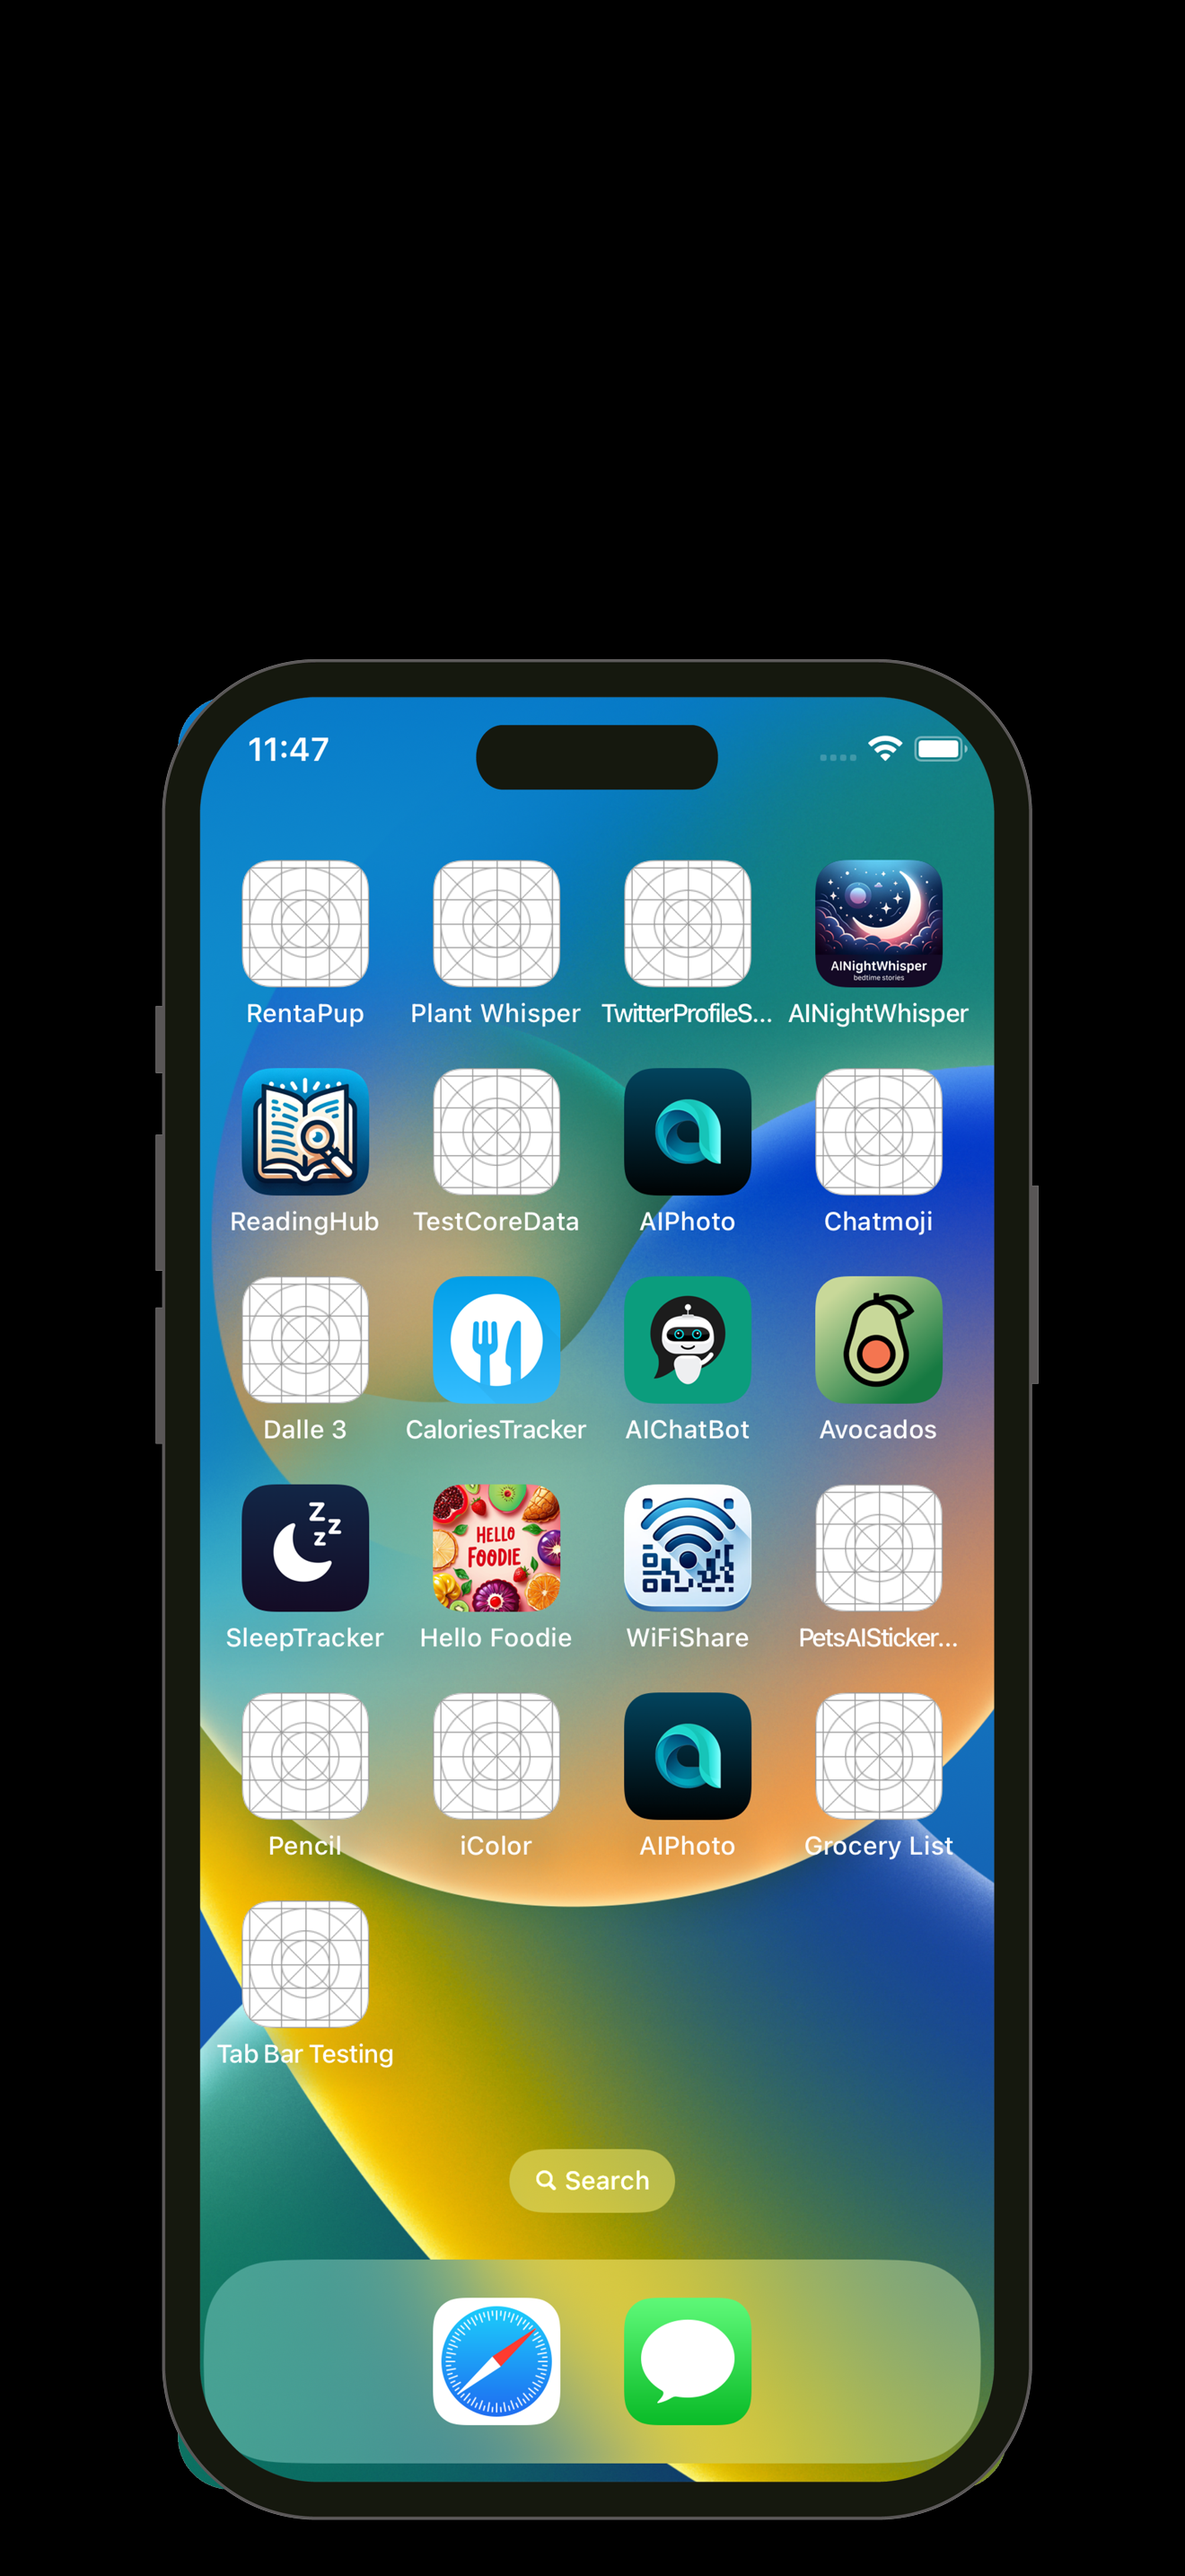
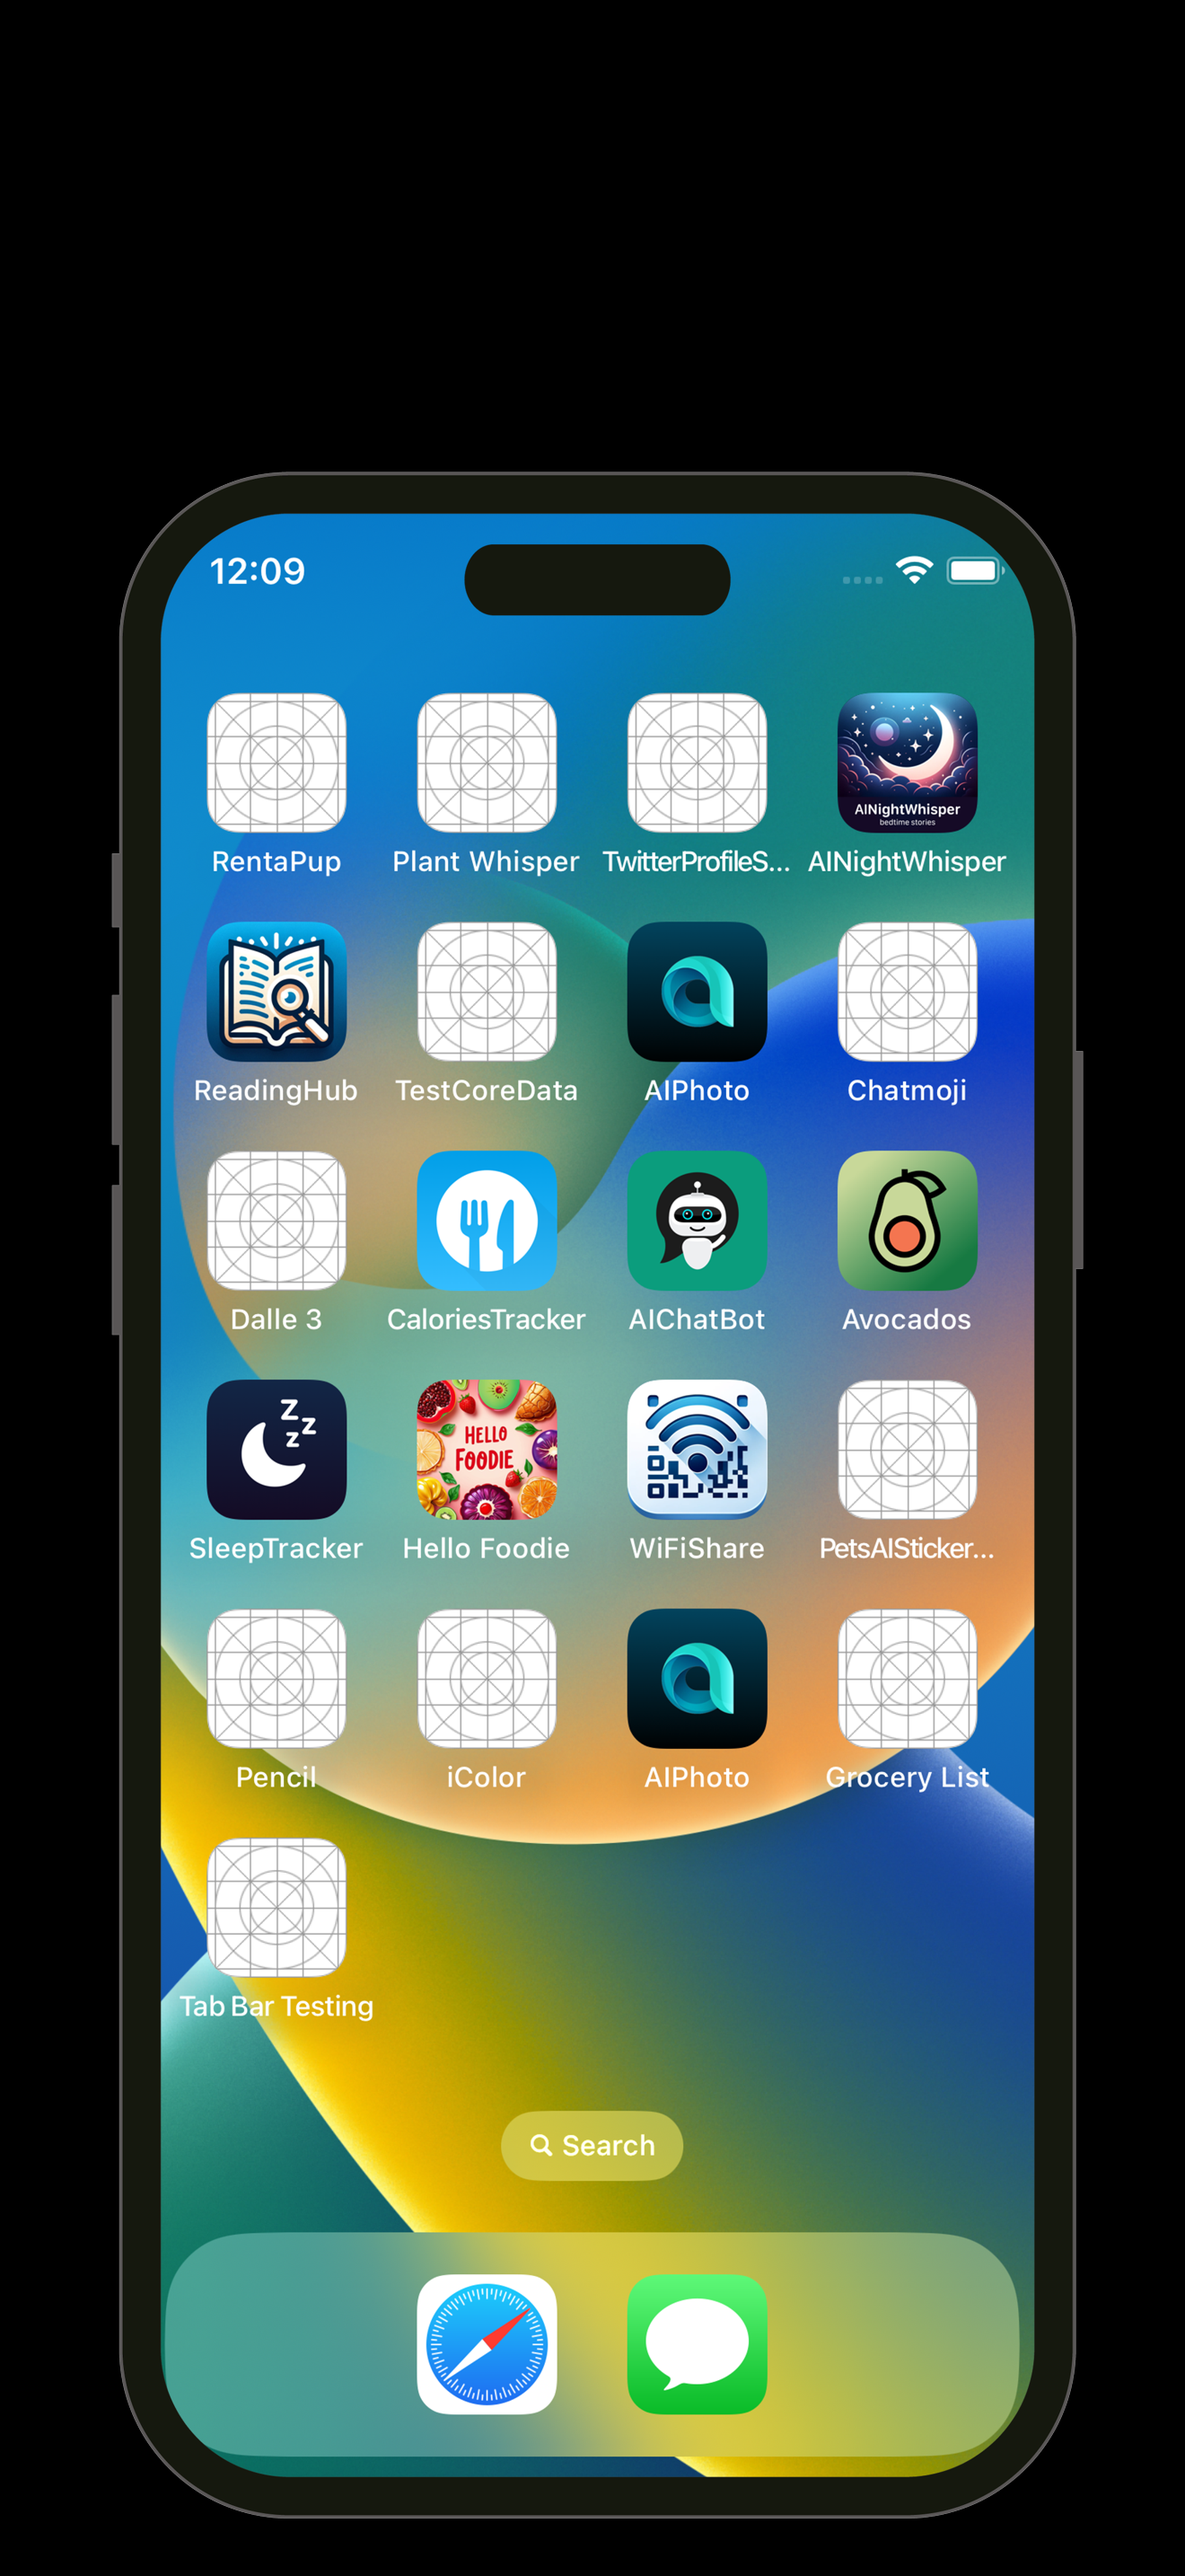
changes

diff --git a/app/main.py b/app/main.py
@@ -9,15 +9,12 @@ def create_colored_background(width: int, height: int, color: tuple) -> Image.Im
     return Image.new("RGBA", (width, height), color)
 
 def place_on_background(downscaled_image: Image.Image, background: Image.Image, padding: int) -> Image.Image:
-    # Calculate the position to bottom-align the image on the background with padding
     position = ((background.width - downscaled_image.width) // 2, 
                 background.height - downscaled_image.height - padding)
-    
-    # Paste the downscaled image onto the background
     background.paste(downscaled_image, position, downscaled_image)
     return background
 
-st.title("Screenshot Placement on Custom Background with Padding")
+st.title("Enhanced Screenshot Placement with Adjustable Corners and Sizing")
 
 # Load the iPhone frame from the config path
 iphone_frame = Image.open(config.IPHONE_FRAME_PATH)
@@ -29,6 +26,10 @@ background_color = tuple(int(bg_color[i:i+2], 16) for i in (1, 3, 5)) + (255,)  
 # User selects padding for the bottom
 padding = st.slider("Select bottom padding", min_value=0, max_value=500, value=50)
 
+# User adjusts the corner radius and image scaling
+corner_radius = st.slider("Select corner radius for image", min_value=0, max_value=300, value=150)
+image_scale = st.slider("Adjust image scale", min_value=1000, max_value=1300, value=1100)
+
 # Upload multiple screenshot images
 uploaded_images = st.file_uploader("Upload Screenshots", type=["jpg", "jpeg", "png"], accept_multiple_files=True)
 
@@ -37,13 +38,12 @@ if uploaded_images:
     for idx, uploaded_image in enumerate(uploaded_images):
         input_image = Image.open(uploaded_image)
         
-        # Overlay the screenshot with the iPhone frame
-        framed_image = overlay_screenshot_with_frame(input_image, iphone_frame, radius=config.DEFAULT_CORNER_RADIUS)
+        # Overlay the screenshot with the iPhone frame, using the chosen corner radius
+        framed_image = overlay_screenshot_with_frame(input_image, iphone_frame, radius=corner_radius)
         
-        # Downscale the framed image to fit within the black background width
-        target_width = 1000  # Adjusted width for the iPhone framed image
+        # Adjust the size of the image to be larger before placing on the background
         aspect_ratio = framed_image.height / framed_image.width
-        downscaled_size = (target_width, int(target_width * aspect_ratio))
+        downscaled_size = (image_scale, int(image_scale * aspect_ratio))
         downscaled_image = framed_image.resize(downscaled_size)
         
         # Create a colored background of 1320px by 2868px
